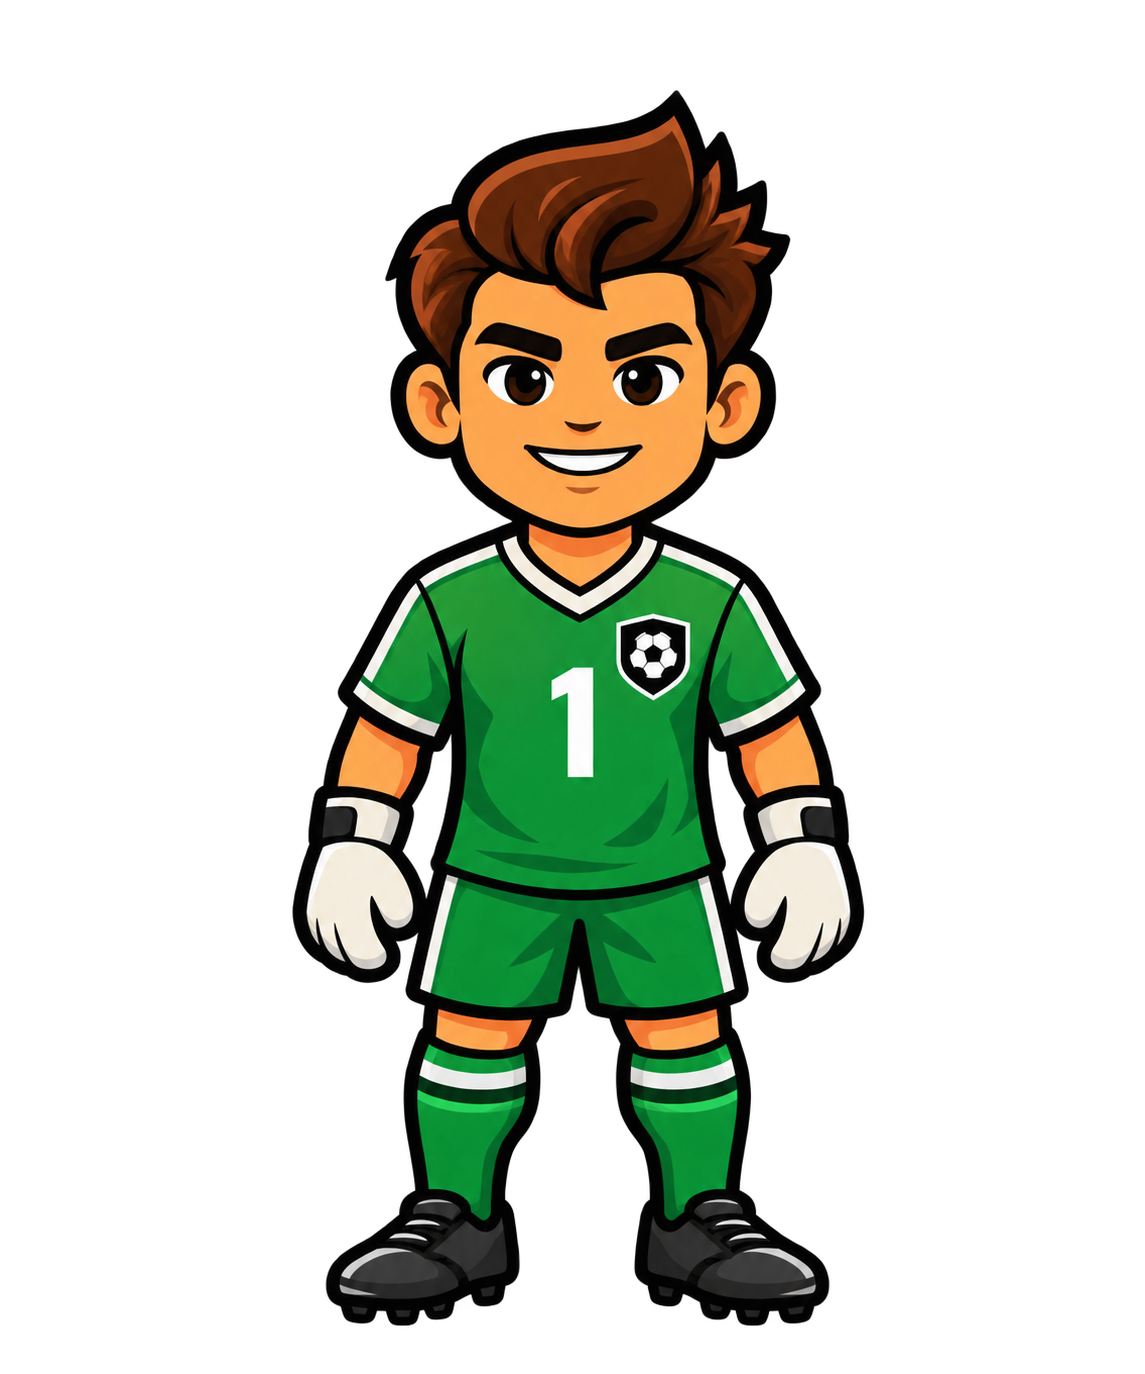
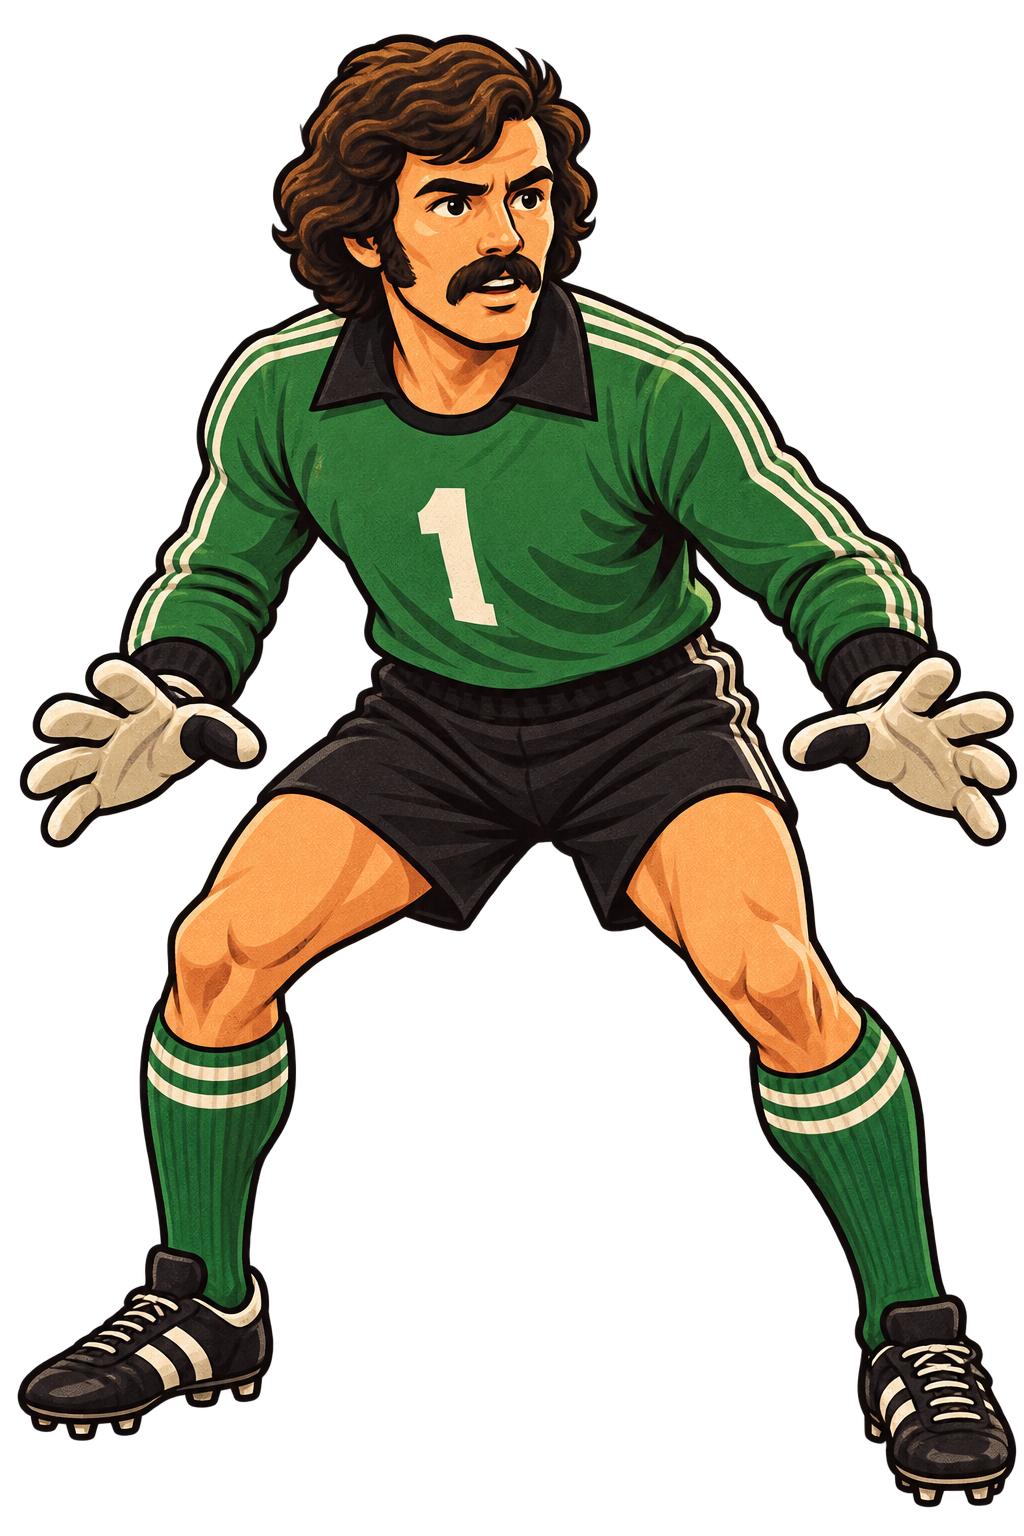
1974-style goalkeeper figure
Claude-Session: https://claude.ai/code/session_01SJFgZ3ntddE1JVA3buEB2q

diff --git a/talk/index.html b/talk/index.html
@@ -284,7 +284,7 @@
 <span data-obj="kit-swap-b" data-mirror="kits" hidden></span>
 <!-- pitch:end -->
 
-    <img class="place figure" data-obj="fig1" src="img/player1.png" alt="" style="left: 1846px; top: 1612px; width: 540px;">
+    <img class="place figure" data-obj="fig1" src="img/player1.png?v=2" alt="" style="left: 1846px; top: 1612px; width: 540px;">
     <div class="place card" data-obj="card1" style="left: 2416px; top: 1552px; width: 1260px; transform: rotate(-1.5deg);">
       <div class="card-body">
         <div class="card-title"><span class="hand">Goalkeeper</span><span class="pos">GK</span></div>
